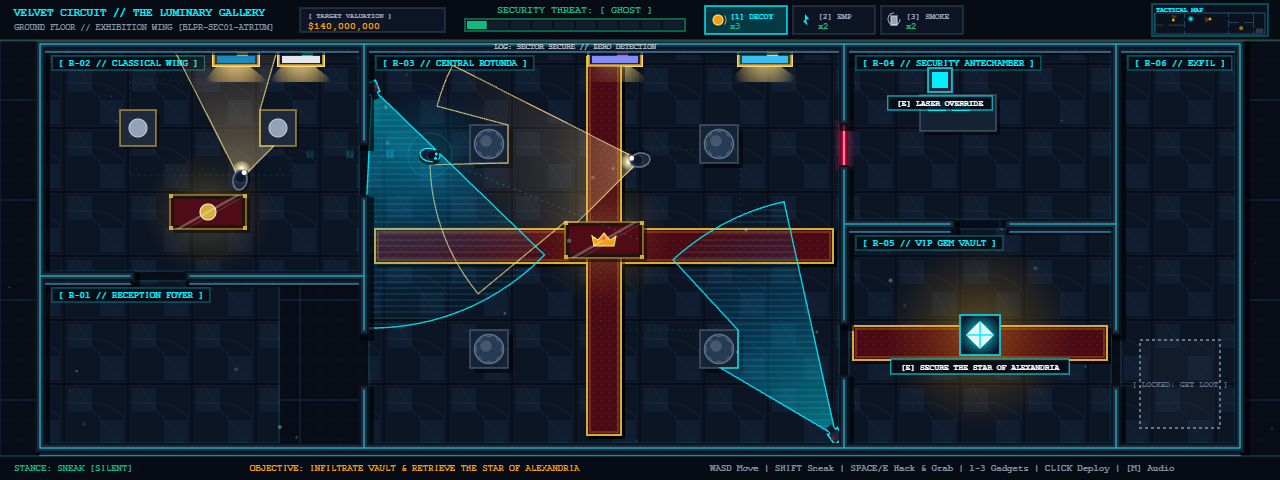
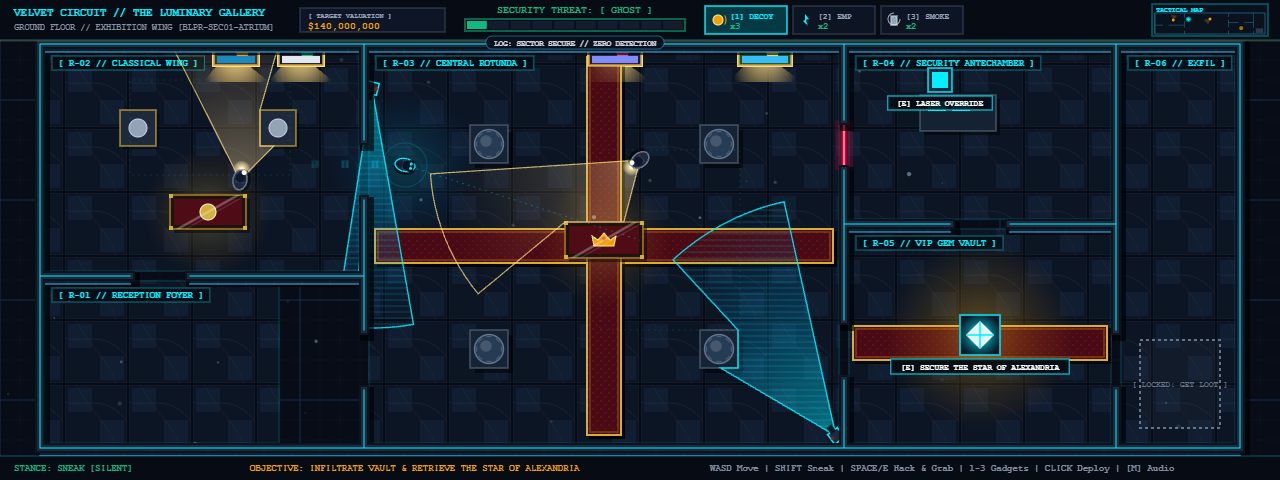
VELVET CIRCUIT v4.1: Micro-fixes for stealth cones, EMP tags, HUD pill ticker, and haul valuation

Changed region(s): [[0.25, 0.1562, 0.5, 0.6875], [0.375, 0.0625, 0.5312, 0.125], [0.3438, 0.2188, 0.375, 0.25]]

diff --git a/game/src/shots.js b/game/src/shots.js
@@ -11,18 +11,18 @@ export function stageScreenshotScenario(sceneName, worldState) {
   if (sceneName === '01-gallery-stealth' || sceneName === 'start') {
     // Floor 1: Hero stealth frame with all 5 mandatory elements
     worldState.loadFloor(0);
-    // Position thief sneaking behind Corinthian column (casts realistic shadow)
-    worldState.thief.x = 430;
-    worldState.thief.y = 155;
+    // Position thief sneaking behind Corinthian column cover outside camera & guard cones
+    worldState.thief.x = 405;
+    worldState.thief.y = 165;
     worldState.thief.facing = 0.2;
     worldState.thief.isSneaking = true;
     worldState.alarmSystem.forceState("GHOST", 8);
 
-    // Guard 1 in Rotunda with volumetric cone sweeping across plinths
+    // Guard 1 in Rotunda sweeping southwest across plinths and vitrine
     if (worldState.guards[0]) {
       worldState.guards[0].x = 640;
       worldState.guards[0].y = 160;
-      worldState.guards[0].facing = Math.PI * 0.95;
+      worldState.guards[0].facing = Math.PI * 0.78;
       worldState.guards[0].state = "PATROL";
     }
     // Guard 2 in Classical Wing
@@ -33,9 +33,9 @@ export function stageScreenshotScenario(sceneName, worldState) {
       worldState.guards[1].state = "PATROL";
     }
 
-    // Camera pointing across rotunda with cyan scanlines
+    // Camera pointing south-southeast across rotunda with cyan scanlines
     if (worldState.cameraSystem.cameras[0]) {
-      worldState.cameraSystem.cameras[0].currentAngle = Math.PI * 0.38;
+      worldState.cameraSystem.cameras[0].currentAngle = Math.PI * 0.58;
       worldState.cameraSystem.cameras[0].disabledTimer = 0;
     }
     if (worldState.cameraSystem.cameras[1]) {
@@ -51,9 +51,9 @@ export function stageScreenshotScenario(sceneName, worldState) {
 
     // Footstep breadcrumb trail
     worldState.thief.footsteps = [
-      { x: 390, y: 155, facing: 0, alpha: 0.8 },
-      { x: 350, y: 155, facing: 0, alpha: 0.6 },
-      { x: 310, y: 155, facing: 0, alpha: 0.4 }
+      { x: 375, y: 165, facing: 0, alpha: 0.8 },
+      { x: 345, y: 165, facing: 0, alpha: 0.6 },
+      { x: 315, y: 165, facing: 0, alpha: 0.4 }
     ];
   } else if (sceneName === '02-gadget-distraction' || sceneName === 'gadget') {
     // Floor 2: Gadget / EMP and Decoy distraction

diff --git a/game/src/ui/hud.js b/game/src/ui/hud.js
@@ -137,12 +137,32 @@ export class GameHUD {
       }
     }
 
-    // Recent Security Feed Message
-    ctx.font = "7.5px 'Courier New', monospace";
-    ctx.fillStyle = alarmSystem.state === "LOCKDOWN" ? "#FF003C" : "rgba(226, 232, 240, 0.75)";
+    // Recent Security Feed Message inside sleek compact dark pill capsule
+    ctx.font = "bold 7.5px 'Courier New', monospace";
+    ctx.fillStyle = alarmSystem.state === "LOCKDOWN" ? "#FF003C" : "rgba(226, 232, 240, 0.90)";
     const msg = `LOG: ${alarmSystem.lastAlertMessage}`;
     const msgW = ctx.measureText(msg).width;
-    ctx.fillText(msg, cx - msgW * 0.5, 49);
+    const pillW = msgW + 16;
+    const pillH = 13;
+    const pillX = cx - pillW * 0.5;
+    const pillY = 36;
+
+    // Dark pill background masking top wall border
+    ctx.fillStyle = "rgba(10, 16, 26, 0.95)";
+    ctx.strokeStyle = alarmSystem.state === "LOCKDOWN" ? "rgba(255, 0, 60, 0.8)" : "rgba(56, 189, 248, 0.45)";
+    ctx.lineWidth = 1;
+    if (ctx.roundRect) {
+      ctx.beginPath();
+      ctx.roundRect(pillX, pillY, pillW, pillH, 6);
+      ctx.fill();
+      ctx.stroke();
+    } else {
+      ctx.fillRect(pillX, pillY, pillW, pillH);
+      ctx.strokeRect(pillX, pillY, pillW, pillH);
+    }
+
+    ctx.fillStyle = alarmSystem.state === "LOCKDOWN" ? "#FF003C" : "rgba(226, 232, 240, 0.90)";
+    ctx.fillText(msg, cx - msgW * 0.5, pillY + 9.5);
   }
 
   renderGadgetBar(ctx, gadgetManager) {

diff --git a/game/src/ui/debrief.js b/game/src/ui/debrief.js
@@ -2,7 +2,7 @@
  * debrief.js - Tactical Mission Debrief & Contract Progression Scorecard (v4)
  * Renders the studio-grade glassmorphism post-mission debrief screen:
  * - Handcrafted vector S-Rank Operative Crest
- * - Heist target valuation ($62,500,000) & stealth analytics
+ * - Total haul valuation ($287,500,000) & stealth analytics
  * - 3 Progressive contract cards with completion badges and target icons
  */
 
@@ -60,7 +60,7 @@ export class MissionDebriefModal {
     // 5. Left Column: Heist Analytics & Performance Metrics
     const lx = cx + 24;
     const stats = [
-      { label: "TARGET VALUATION", val: "$62,500,000", col: "#F59E0B", bold: true },
+      { label: "TOTAL HAUL VALUATION", val: "$287,500,000", col: "#F59E0B", bold: true },
       { label: "DETECTIONS LOGGED", val: "00 [GHOST RATING]", col: "#00F0FF" },
       { label: "ALARM LOCKDOWNS", val: "00 [CLEAN INFIL]", col: "#10B981" },
       { label: "GADGETS DEPLOYED", val: "03 [1 COIN, 1 EMP, 1 SMOKE]", col: "#38BDF8" },

diff --git a/game/src/engine/particles.js b/game/src/engine/particles.js
@@ -168,7 +168,7 @@ export class ParticleEngine {
       ctx.fill();
     }
 
-    // 4. Floating diegetic countdown timer over EMP-disabled security cameras
+    // 4. Floating diegetic countdown timer over EMP-disabled security cameras (offset below camera)
     for (let cam of disabledCameras) {
       if (cam.disabledTimer > 0) {
         const timeSec = cam.disabledTimer.toFixed(1);
@@ -177,9 +177,9 @@ export class ParticleEngine {
         const tw = ctx.measureText(tagText).width + 12;
 
         const bx = cam.x - tw * 0.5;
-        const by = cam.y - 18;
+        const by = cam.y + 18; // offset 18px BELOW the disabled camera
 
-        ctx.fillStyle = "rgba(7, 12, 22, 0.92)";
+        ctx.fillStyle = "rgba(7, 12, 22, 0.96)";
         ctx.fillRect(bx, by, tw, 13);
         ctx.strokeStyle = "#00F0FF";
         ctx.lineWidth = 1;

diff --git a/game/src/main.js b/game/src/main.js
@@ -251,10 +251,10 @@ export class VelvetGame {
 
     // 11. Multi-Layered Particles: Dust Motes, Swirling Smoke Veil, EMP Lightning Arcs & Sound Waves
     this.particles.renderDustMotes(this.ctx);
+    this.gadgetManager.render(this.ctx);
     this.particles.renderSmokeClouds(this.ctx, this.gadgetManager.smokeClouds, this.renderer.time);
     this.particles.renderEMPEffects(this.ctx, this.gadgetManager.empFlashes, this.cameraSystem.cameras);
     this.particles.renderSoundRipples(this.ctx, this.gadgetManager.soundRipples);
-    this.gadgetManager.render(this.ctx);
 
     // 12. Security Cameras & Armored Guards Bodies
     this.renderer.renderCameras(this.cameraSystem.cameras);

diff --git a/main.ts b/main.ts
@@ -10,7 +10,7 @@ import { join, resolve } from 'node:path';
 import { fileURLToPath } from 'node:url';
 import { buildDossier } from './vendor/makefun-game.ts';
 
-const VELVET_CIRCUIT_RELEASE = '1.2.0';
+const VELVET_CIRCUIT_RELEASE = '1.2.1';
 
 function runVelvetCircuitPipeline(): void {
   const baseDir = fileURLToPath(new URL('.', import.meta.url));

diff --git a/game/src/world/levels.js b/game/src/world/levels.js
@@ -376,7 +376,7 @@ export const LEVEL_2_SERVER_VAULT = {
 export const LEVEL_3_PENTHOUSE_SAFE = {
   id: 3,
   name: "THE SOVEREIGN SANCTUM",
-  subtitle: "PENTHOUSE LEVEL 88 // EXECUTIVE SAFE",
+  subtitle: "PENTHOUSE LVL 88 //",
   blueprintCode: "BLPR-SEC03-SANCTUM",
   floorType: "penthouse",
   lootValue: "$62,500,000",
